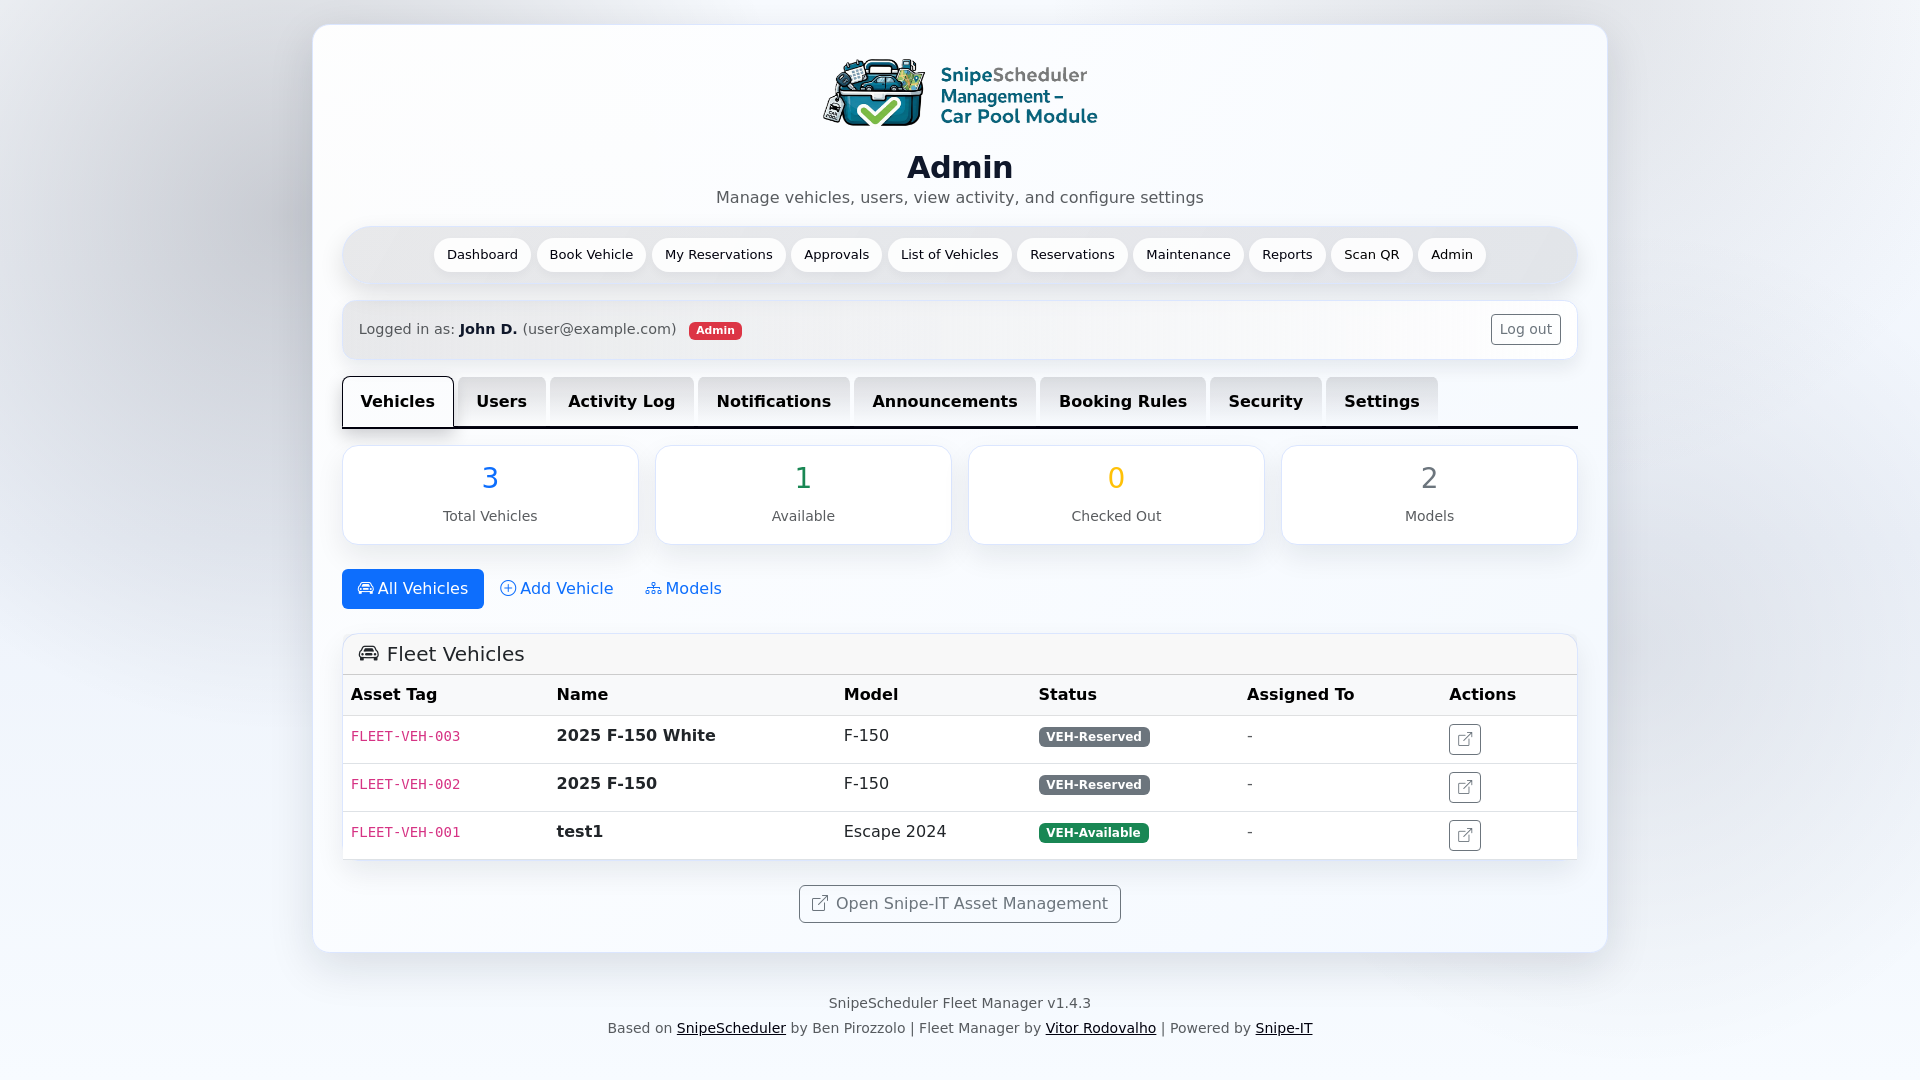
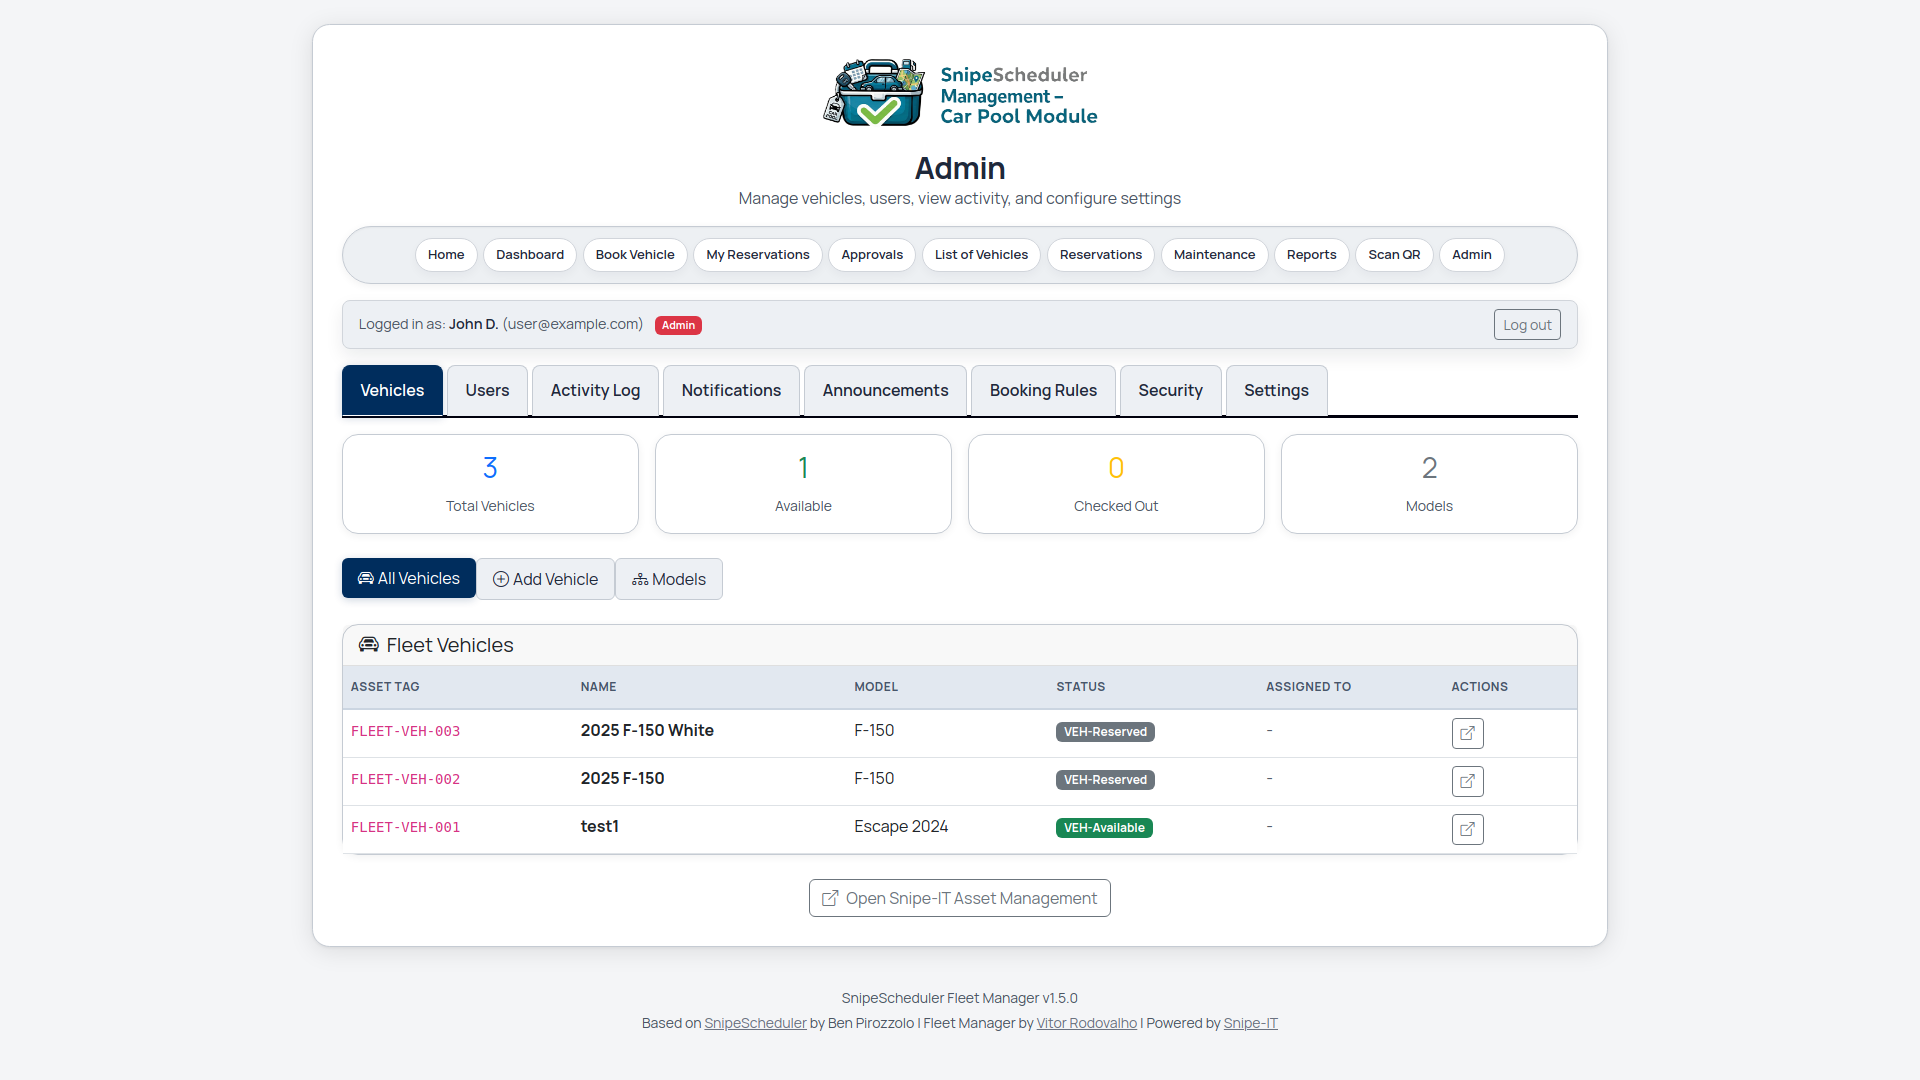
docs: Add missing pages to screenshot script, updated screenshots for v1.5.0

diff --git a/scripts/take-screenshots.js b/scripts/take-screenshots.js
@@ -12,6 +12,7 @@ const SCREENSHOT_DIR = path.join(__dirname, '../docs/screenshots');
 
 const PAGES = [
     { name: 'login', path: '/login', auth: false },
+    { name: 'index', path: '/index', auth: true },
     { name: 'dashboard', path: '/dashboard', auth: true },
     { name: 'vehicle_catalogue', path: '/vehicle_catalogue', auth: true },
     { name: 'vehicle_reserve', path: '/vehicle_reserve', auth: true },
@@ -20,6 +21,8 @@ const PAGES = [
     { name: 'reservations', path: '/reservations', auth: true },
     { name: 'maintenance', path: '/maintenance', auth: true },
     { name: 'reports', path: '/reports', auth: true },
+    { name: 'scan', path: '/scan', auth: true },
+    { name: 'activity_log', path: '/activity_log', auth: true },
     { name: 'vehicles', path: '/vehicles', auth: true },
     { name: 'vehicles_create', path: '/vehicles?tab=create', auth: true },
     { name: 'users', path: '/users', auth: true },
